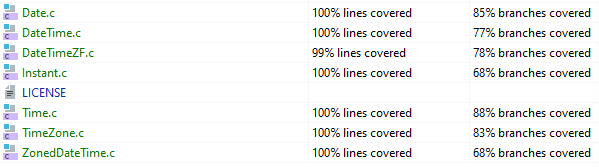
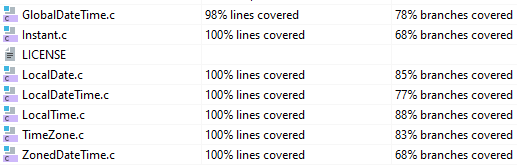
Naming refactoring. Fixed header file ambiguity

diff --git a/Tests/main.c b/Tests/main.c
@@ -1,10 +1,10 @@
-#include "DateTime/TimeTest.h"
-#include "DateTime/DateTest.h"
+#include "DateTime/LocalTimeTest.h"
+#include "DateTime/LocalDateTest.h"
 #include "DateTime/IntantTest.h"
-#include "DateTime/DateTimeTest.h"
+#include "DateTime/LocalDateTimeTest.h"
 #include "DateTime/ZonedDateTimeTest.h"
 #include "DateTime/TimeZoneTest.h"
-#include "DateTime/DateTimeZFTest.h"
+#include "DateTime/GlobalDateTimeTest.h"
 
 int main(int argc, char *argv[MUNIT_ARRAY_PARAM(argc + 1)]) {
     MunitTest emptyTests[] = {END_OF_TESTS};

diff --git a/include/GlobalDateTime.h b/include/GlobalDateTime.h
@@ -70,11 +70,3 @@ void formatTime(Time *time, char *resultBuffer, uint32_t length, DateTimeFormatt
 void formatDate(Date *date, char *resultBuffer, uint32_t length, DateTimeFormatter *formatter);
 void formatDateTime(DateTime *dateTime, char *resultBuffer, uint32_t length, DateTimeFormatter *formatter);
 void formatZonedDateTime(ZonedDateTime *zonedDateTime, char *resultBuffer, uint32_t length, DateTimeFormatter *formatter);
-
-
-
-
-
-
-
-

diff --git a/Tests/munit/munit.c b/Tests/munit/munit.c
@@ -472,7 +472,7 @@ struct PsnipClockTimespec {
   (defined(PSNIP_CLOCK_CPU_METHOD)       && (PSNIP_CLOCK_CPU_METHOD       == PSNIP_CLOCK_METHOD_TIME)) || \
   (defined(PSNIP_CLOCK_WALL_METHOD)      && (PSNIP_CLOCK_WALL_METHOD      == PSNIP_CLOCK_METHOD_TIME)) || \
   (defined(PSNIP_CLOCK_MONOTONIC_METHOD) && (PSNIP_CLOCK_MONOTONIC_METHOD == PSNIP_CLOCK_METHOD_TIME))
-#  include <time.h>
+#  include <LocalTime.h>
 #endif
 
 #if \

diff --git a/Tests/DateTime/LocalDateTimeTest.h b/Tests/DateTime/LocalDateTimeTest.h
@@ -1,7 +1,7 @@
 #pragma once
 
 #include "BaseTestTemplate.h"
-#include "DateTime.h"
+#include "LocalDateTime.h"
 
 static const TimeZone ZONE_PARIS = {.id = "Europe/Paris", .utcOffset = 7200};
 static const TimeZone ZONE_MINUS_TWO_HOURS = {.id = "GMT-2", .utcOffset = -7200};

diff --git a/LocalDateTime.c b/LocalDateTime.c
@@ -1,4 +1,4 @@
-#include "include/DateTime.h"
+#include "include/LocalDateTime.h"
 
 static const DateTime UNINITIALIZED_DATE_TIME = {.date = {0},
         .time = {.hours = -1, .minutes = -1, .seconds = -1, .millis = -1}};

diff --git a/Tests/DateTime/LocalDateTest.h b/Tests/DateTime/LocalDateTest.h
@@ -1,7 +1,7 @@
 #pragma once
 
 #include "BaseTestTemplate.h"
-#include "Date.h"
+#include "LocalDate.h"
 
 
 static Date TEST_2007_07_15 = {.year = 2007, .month = 7, .day = 15, .weekDay = SUNDAY};

diff --git a/Tests/DateTime/LocalTimeTest.h b/Tests/DateTime/LocalTimeTest.h
@@ -1,7 +1,7 @@
 #pragma once
 
 #include "BaseTestTemplate.h"
-#include "Time.h"
+#include "LocalTime.h"
 
 static const int8_t INVALID_TIME_TEST_CASES[][3] = {
         {24, 0, 0},

diff --git a/Tests/DateTime/GlobalDateTimeTest.h b/Tests/DateTime/GlobalDateTimeTest.h
@@ -1,7 +1,7 @@
 #pragma once
 
 #include "BaseTestTemplate.h"
-#include "DateTimeZF.h"
+#include "GlobalDateTime.h"
 
 typedef struct PatternCompileTest {
     const char *pattern;

diff --git a/GlobalDateTime.c b/GlobalDateTime.c
@@ -1,4 +1,4 @@
-#include "include/DateTimeZF.h"
+#include "include/GlobalDateTime.h"
 
 #define MONTH_NAME_MAX_LENGTH 9
 #define ARRAY_SIZE(arr) (sizeof(arr) / sizeof((arr)[0]))

diff --git a/LocalTime.c b/LocalTime.c
@@ -1,4 +1,4 @@
-#include "include/Time.h"
+#include "include/LocalTime.h"
 
 #define UNINITIALIZED_TIME ((Time){.hours = -1, .minutes = -1, .seconds = -1, .millis = -1})
 

diff --git a/include/LocalDate.h b/include/LocalDate.h
@@ -1,6 +1,6 @@
 #pragma once
 
-#include "Time.h"
+#include "LocalTime.h"
 
 /*The number of days in a 400 year cycle.*/
 #define DAYS_PER_CYCLE 146097L

diff --git a/LocalDate.c b/LocalDate.c
@@ -1,4 +1,4 @@
-#include "include/Date.h"
+#include "include/LocalDate.h"
 
 #define UNINITIALIZED_DATE ((Date){.year = -1, .month = 0, .day = -1})
 
